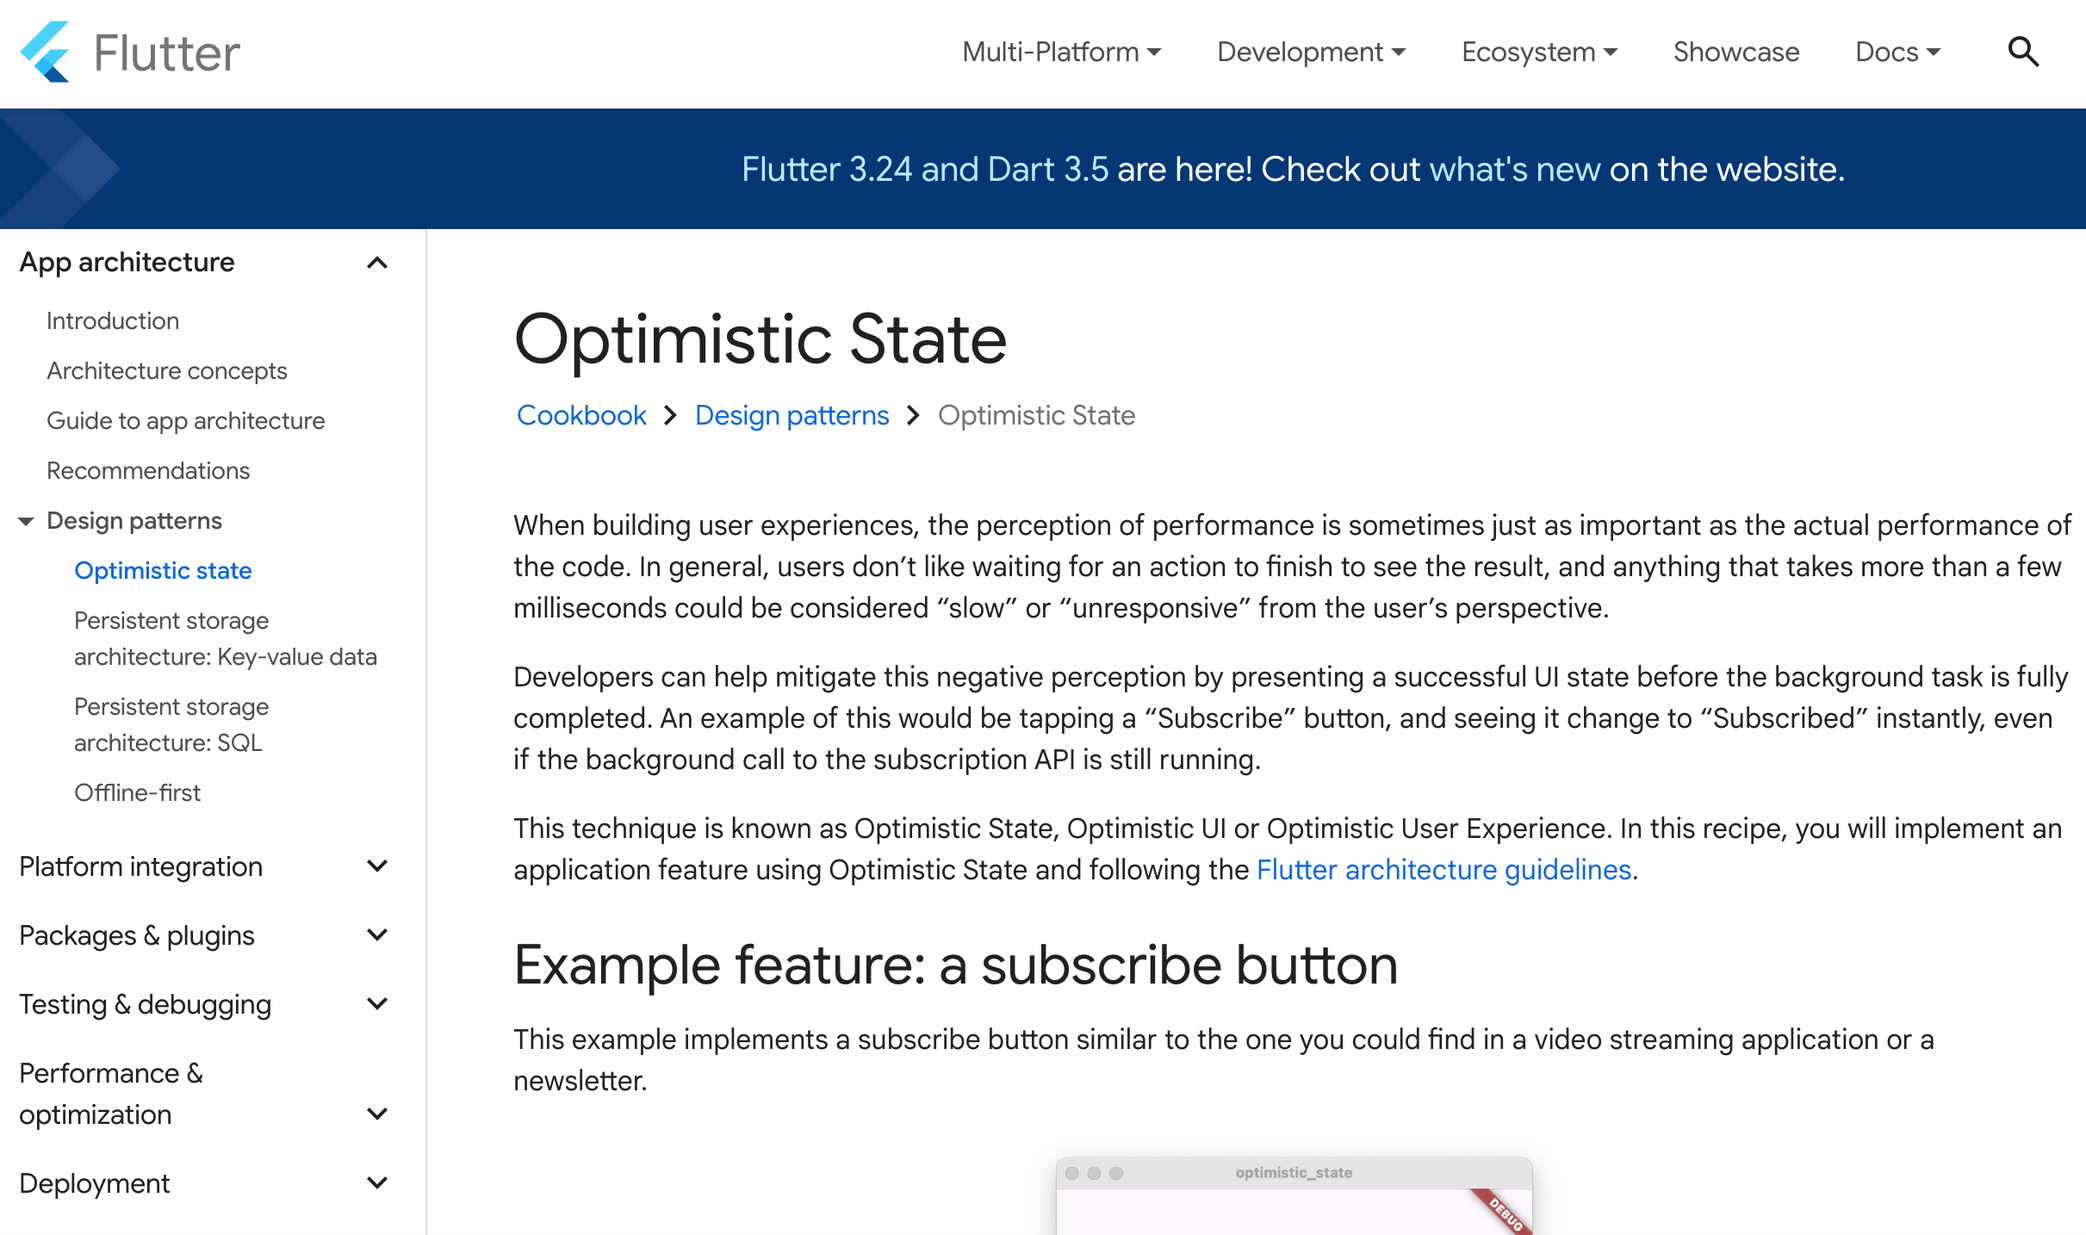
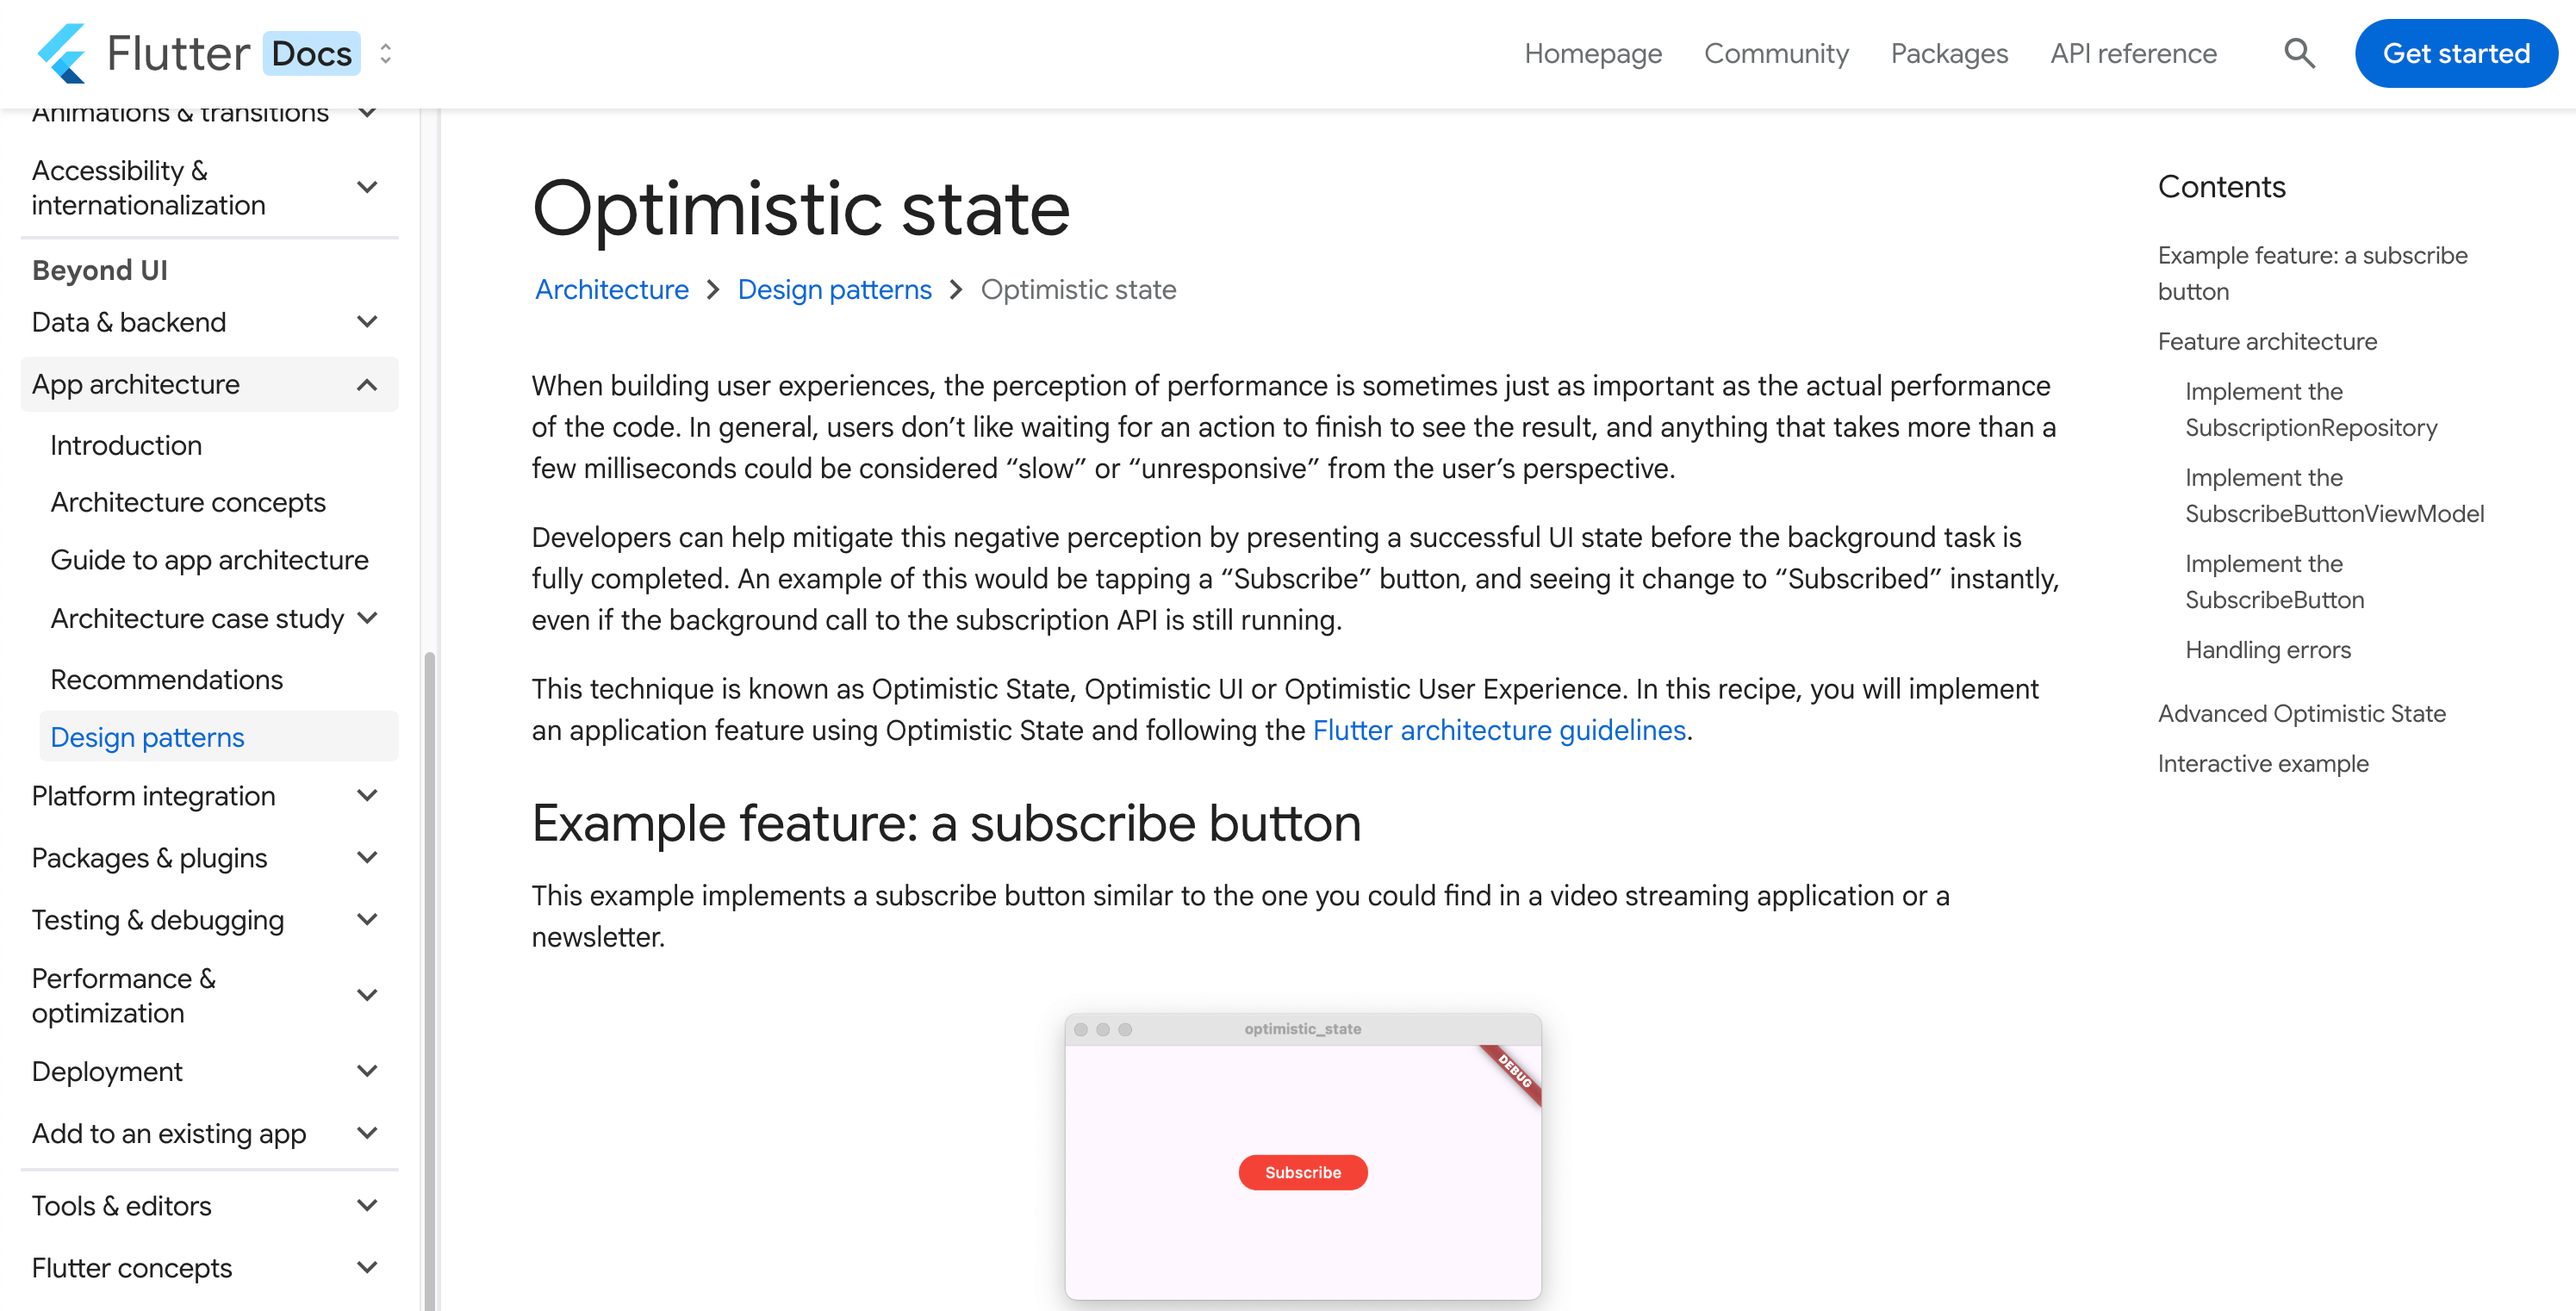
Update optimistic state pictures

diff --git a/lib/slides/quality/flutter_optimistic_state_docs_slide.dart b/lib/slides/quality/flutter_optimistic_state_docs_slide.dart
@@ -15,7 +15,8 @@ class FlutterOptimisticStateDocsSlide extends FlutterDeckSlideWidget {
       imageBuilder: (context) => Image.asset(
         'assets/flutter-optimistic-state-docs.png',
       ),
-      label: 'https://docs.flutter.dev/cookbook/architecture/optimistic-state',
+      label:
+          'https://docs.flutter.dev/app-architecture/design-patterns/optimistic-state',
     );
   }
 }
